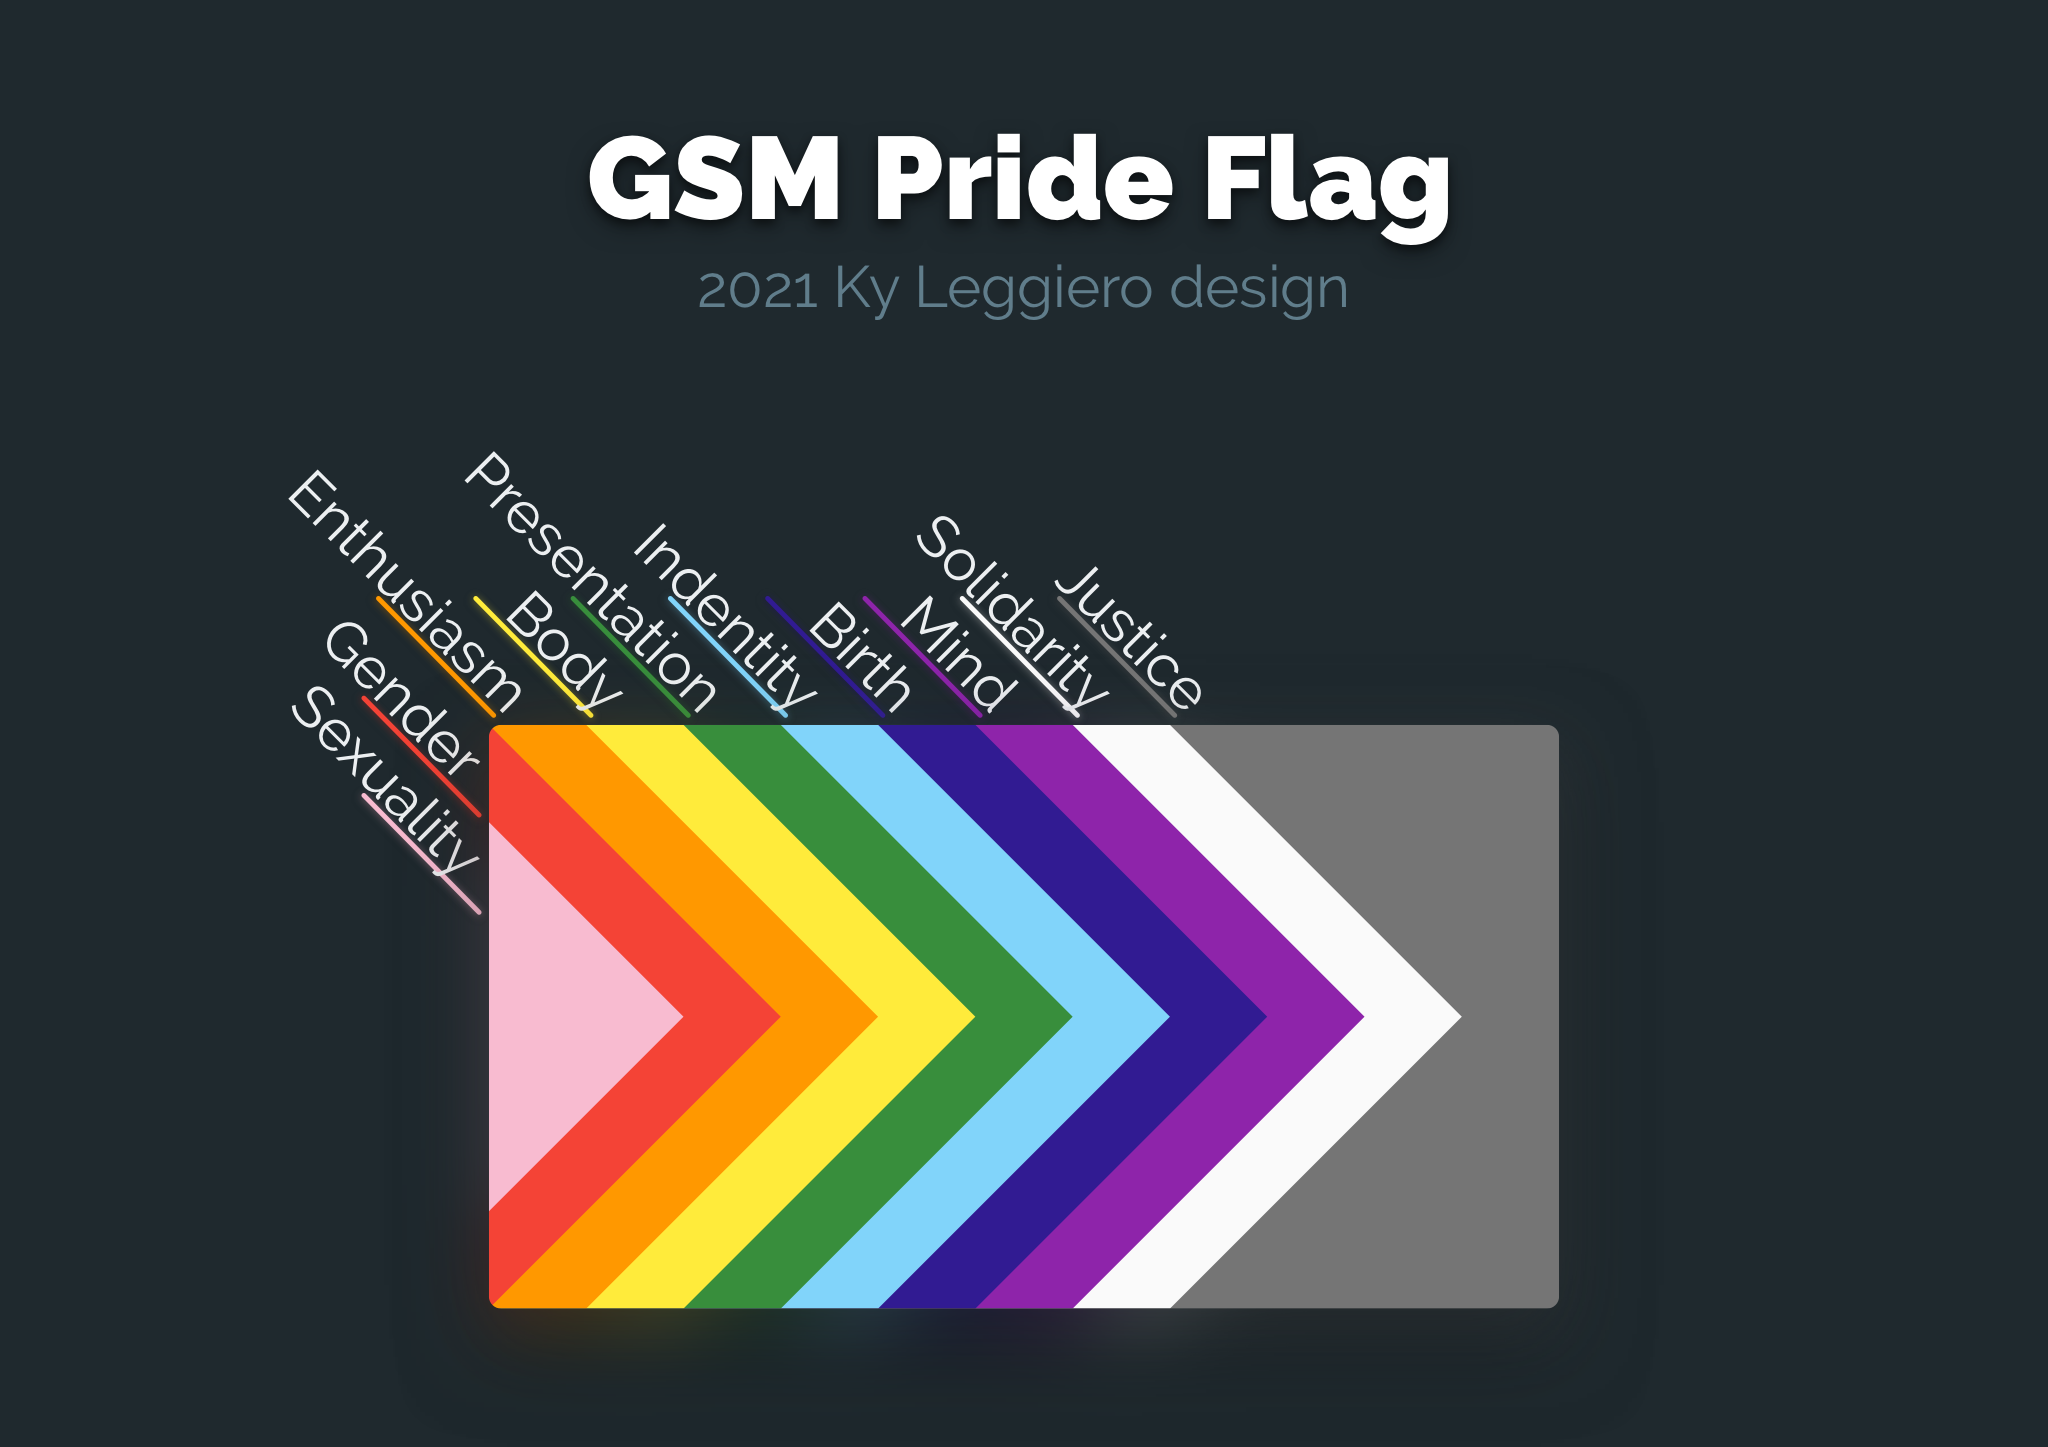
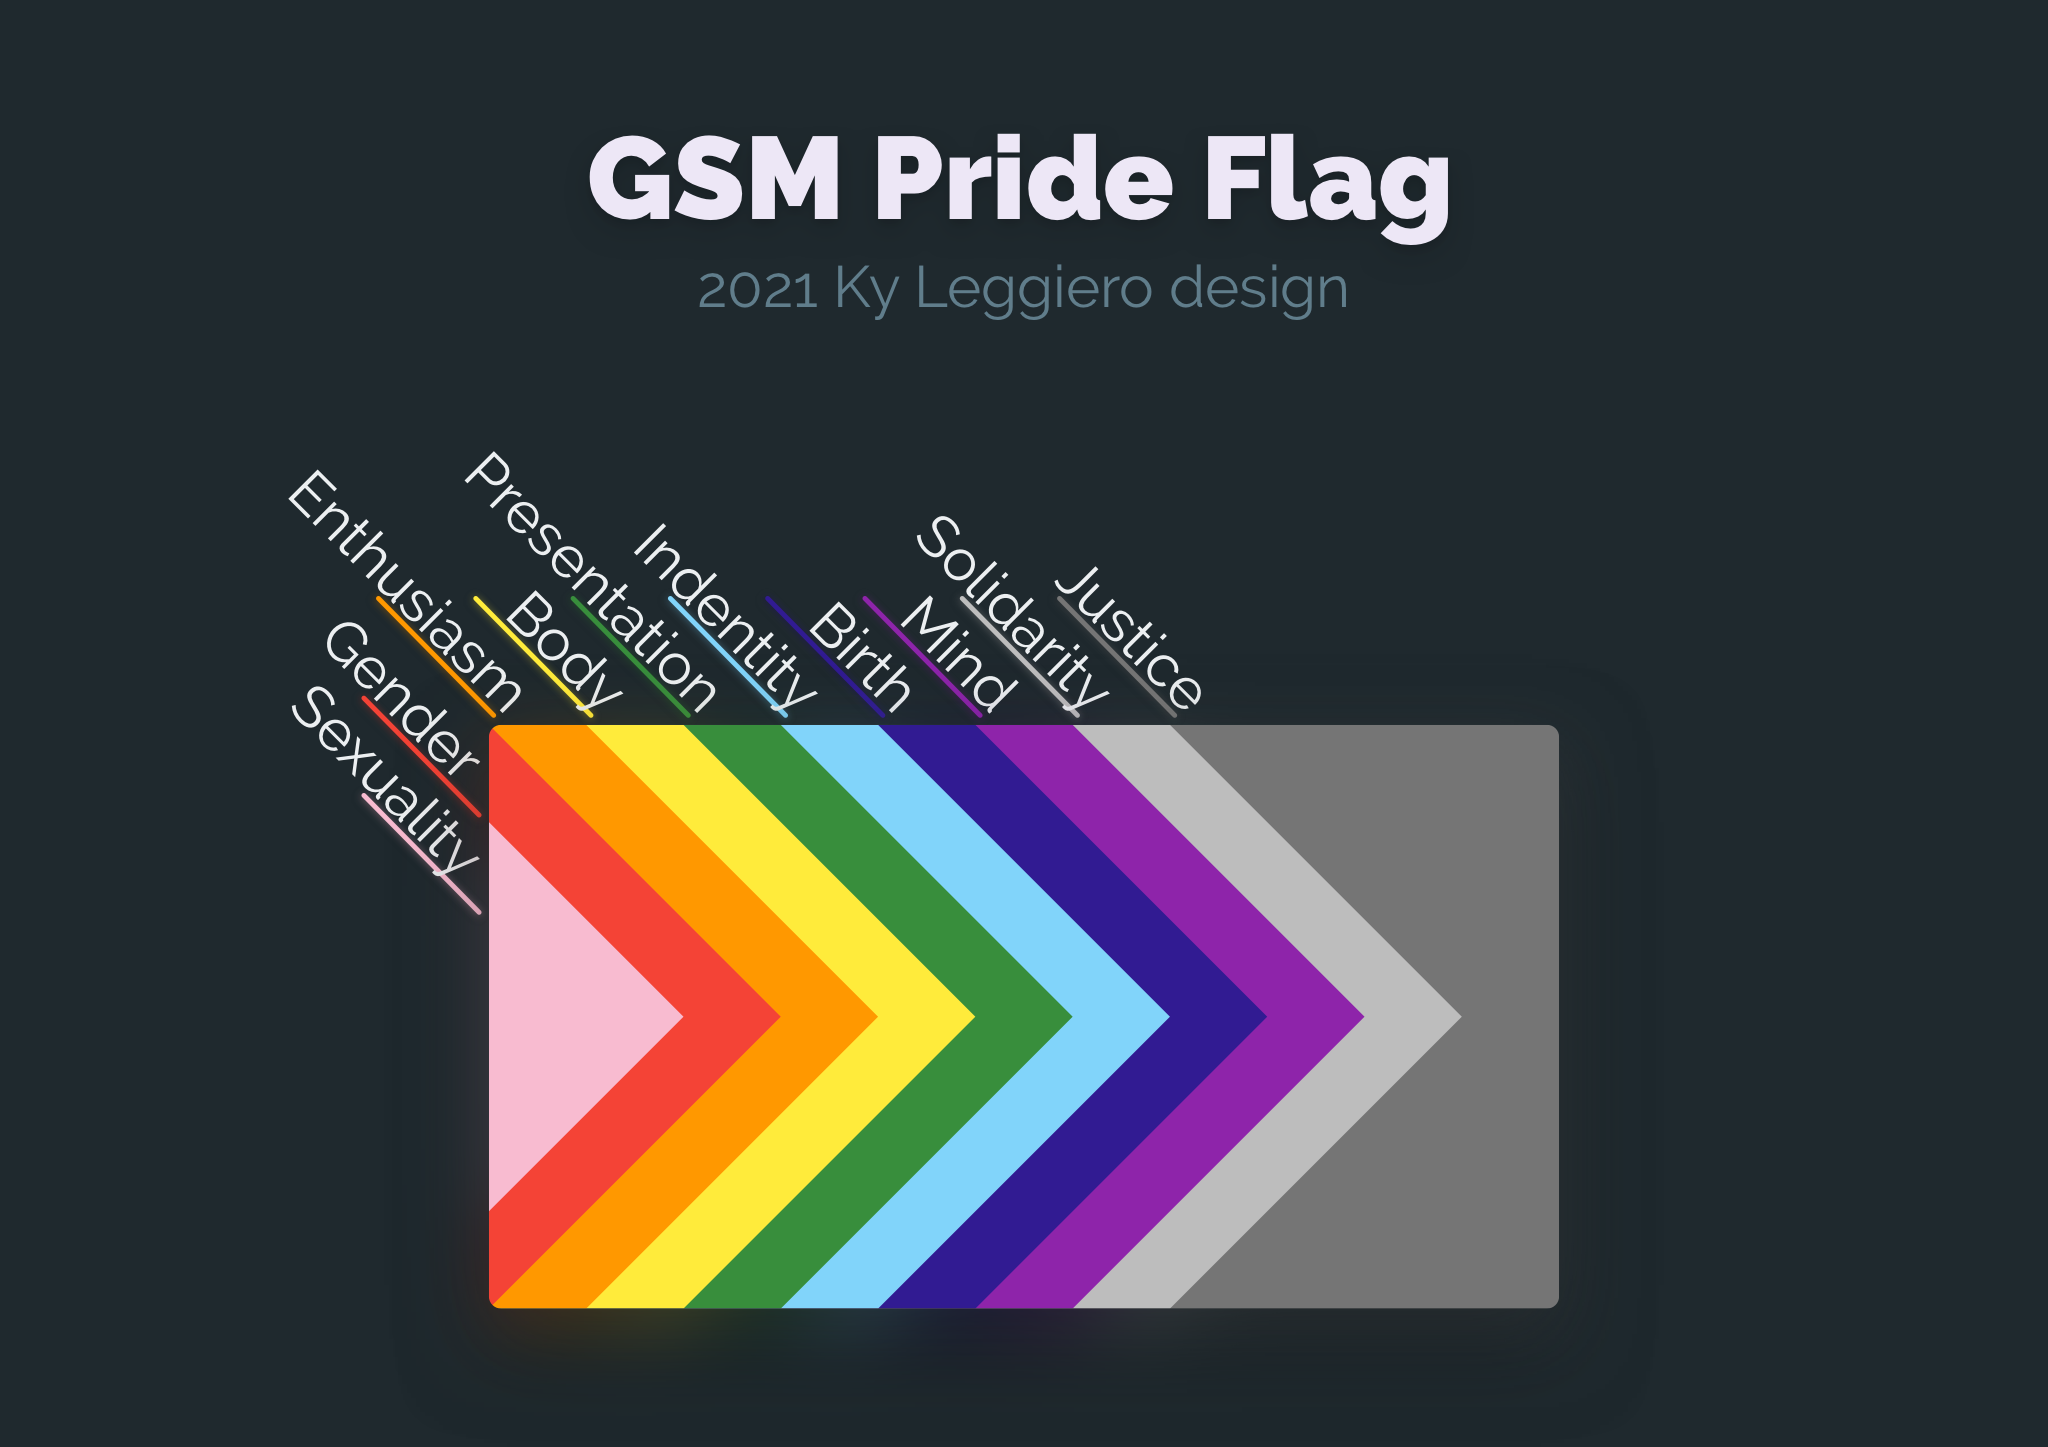
Edits based on feedback
Most significantly, I changed white to silver to reduce racial connotations, and explained some of the colors that folks had questions about

Changed region(s): [[0.5312, 0.4976, 0.7188, 0.9019], [0.5, 0.4665, 0.5312, 0.4976]]

diff --git a/page-specific-styles/2021-06-10-Inclusivity-pride-flags.scss b/page-specific-styles/2021-06-10-Inclusivity-pride-flags.scss
@@ -28,6 +28,11 @@
         display: inline-block;
         height: 1em;
         width: 1em;
+
+        @media (max-width: 960px) {
+            left: 0;
+            margin-inline-end: 1ex;
+        }
     }
 
     &.pink-and-red::before {
@@ -58,17 +63,12 @@
         background-image: url("/images/Pride Flags/GSM Pride Flag - Chevron (Purple).svg");
     }
 
-    &.white::before {
-        background-image: url("/images/Pride Flags/GSM Pride Flag - Chevron (White).svg");
-    }
-
-    &.grey::before {
-        background-image: url("/images/Pride Flags/GSM Pride Flag - Chevron (Grey).svg");
+    &.silver-and-grey::before {
+        background-image: url("/images/Pride Flags/GSM Pride Flag - Chevron (Silver & Grey).svg");
     }
 
 
-    &.yellow::before,
-    &.white::before {
+    &.yellow::before {
         background-color: #{"hsl(0deg, 0%, 50%, 40%)"};
         border-radius: 0.5ex;
 

diff --git a/_sass/_posts-and-pages.scss b/_sass/_posts-and-pages.scss
@@ -4,6 +4,13 @@
 //
 
 
+
+:root {
+    --post-and-page--aside-margin: 1rem;
+}
+
+
+
 .post,
 .page {
     max-width: var(--desktop-small-max-width);
@@ -54,7 +61,7 @@
 
     aside {
         width: fit-content;
-        margin: 1rem;
+        margin: var(--post-and-page--aside-margin);
         margin-inline-start: auto;
         padding: 1ex 1em;
         border-width: 1px;
@@ -66,6 +73,15 @@
         &,
         p {
             line-height: 1.4;
+        }
+
+        &.align-leading {
+            margin-inline-end: auto;
+            margin-inline-start: var(--post-and-page--aside-margin);
+        }
+
+        &.align-leading {
+            margin-inline: auto;
         }
     }
 

diff --git a/_sass/_legal-styles.scss b/_sass/_legal-styles.scss
@@ -23,8 +23,17 @@ aside.legal-disclaimer {
             letter-spacing: 1pt;
         }
 
+        &[data-legal-disclaimer-title-text]::before {
+            content: attr(data-legal-disclaimer-title-text);
+        }
+
         &:last-child {
             margin-bottom: 1cm;
+        }
+
+        &.thin {
+            margin: 1cm 5mm;
+            padding: 3mm 0;
         }
     }
 }

diff --git a/_posts/2021-06-10-Inclusivity-pride-flags.md b/_posts/2021-06-10-Inclusivity-pride-flags.md
@@ -2,6 +2,7 @@
 layout: post
 title: Inclusivity Pride Flags
 date: 2021-06-29 22:35 -0600
+date-edit: 2021-07-01 21:55 -0600
 categories:
   - GSM
   - Gender
@@ -48,7 +49,7 @@ It has 8 stripes, each with symbology that's very much of 70s culture:
 
 ![The current Rainbow Flag, from top to bottom is 6 horizontal stripes: red, orange, yellow, green, indigo, and violet](/images/Pride Flags/Current Rainbow Flag.svg){:.thumbnail.card}
 
-As demand increased, folks started creating and buying the flag. It soon became evident that the hot pink, and later turquoise, weren't as abundant to manufacture. So, they no longer became included, and we got the familiar 6-stripe flag we see today.
+As demand increased, folks started creating and buying the flag. It soon became evident that the hot pink, and later turquoise, weren't as abundant to manufacture. So, they were omitted and we got the familiar 6-stripe flag we see today.
 
 
 
@@ -56,7 +57,7 @@ As demand increased, folks started creating and buying the flag. It soon became 
 
 ![The Philadelphia Pride Flag, which is the standard 6-color pride flag with brown and black stripes added to the top](/images/Pride Flags/Philadelphia Pride Flag.svg){:.thumbnail.card}
 
-The Philadelphia Pride Flag was commissioned by the city of Philadelphia in **June 2017** for their pride events. [It was designed](https://HelloTierney.com/work/more-color-more-pride-2) my the marketing firm [Tierney](https://HelloTierney.com). Visually, it is the standard 6-color pride flag with brown and black stripes added to the top, to draw attention to the issues which people of color such as myself face within the GSM community.
+The Philadelphia Pride Flag was commissioned by the city of Philadelphia in **June 2017** for their pride events. [It was designed](https://HelloTierney.com/work/more-color-more-pride-2) by the marketing firm [Tierney](https://HelloTierney.com). Visually, it is the standard 6-color pride flag with brown and black stripes added to the top, to draw attention to the issues which people of color such as myself face within the GSM community.
 
 One issue with this flag is that it was commissioned by a city, for public relations during Pride 2017. That origin tells a story of capitalizing on oppression issues, trying to monetize peoples' desire to be seen and to unify, rather than being created by those people to protest their oppression.
 
@@ -89,6 +90,7 @@ In **May 2021**, intersex rights activist [Valentino Vecchietti](https://twitter
 
 
 
+
 # My Personal Feelings #
 
 **I really love these!** They all show a desire by the community to unify under one banner, recognizable and empowering. All of them evoke the familiar rainbow flag, and add something that can be noticed, understood, and talked about. That kind of enthusiasm and creativity makes me happy; it's what has grown and centered this community for so many years.
@@ -117,16 +119,17 @@ After I identified these related but distinct needs, inspiration struck me and I
 
 
 
+
 # My Proposal #
 
 <figure markdown=1>
-![A flag displaying 10 chevrons pointing rightward: the original 8 colors, then white and grey](/images/Pride Flags/GSM Pride Flag (2021 Ky Leggiero design).svg){:.mid-post-hero.card}
+![A flag displaying 10 chevrons pointing rightward: the original 8 colors, then silver and grey](/images/Pride Flags/GSM Pride Flag (2021 Ky Leggiero design).svg){:.mid-post-hero.card}
 <figcaption role="cite">The GSM Pride Flag (2021 Ky Leggiero design)</figcaption>
 </figure>
 
 
 
-Here is my proposal. It uses the original Retro 8 colors in 8 rightward-pointing chevrons, then a white chevron, and the rest grey. The symbology here is intertwined and represents what I see as deeply-ingrained pieces of the GSM community and its members. Let's dive into why I landed on this design:
+Here is my proposal. It uses the original Retro 8 colors in 8 rightward-pointing chevrons, then a silver chevron, and the rest grey. The symbology here is intertwined and represents what I see as deeply-ingrained pieces of the GSM community and its members. Let's dive into why I landed on this design:
 
 
 <span data-target-theme="dark">[![](/images/Pride Flags/GSM Pride Flag (2021 Ky Leggiero design; Annotated; Dark Mode).png){:.mid-post-hero.card}](/images/Pride Flags/GSM Pride Flag (2021 Ky Leggiero design; Annotated; Dark Mode).png)</span>
@@ -145,6 +148,10 @@ The first two chevrons and the only ones to touch the leading edge of the flag a
 
 Even when a person's sexuality andor gender is weak or nonexistent, that also helps define our identities and relationships with each other and society at large.
 
+<aside class="align-center">
+These colors were chosen not only because they are the familiar first two colors of the original Retro 8 flag (with the original pink representing Sex, and this one representing Sexuality), but also because their similarity in shade further emphasizes how closely-linked they are. Pink & Red have also often been used to represent passion & sex in general.
+</aside>
+
 
 ### Orange for Enthusiasm ###
 {:.chevron-header.orange}
@@ -152,12 +159,15 @@ Even when a person's sexuality andor gender is weak or nonexistent, that also he
 Enthusiasm is extremely important in the GSM community. It drives our creativity, our expression & presentation, our desire to push for a better world. Without enthusiasm, we would fade into the background; it liberates us and brings us into the public consciousness!
 
 
+
 ### Yellow for Body ###
 {:.chevron-header.yellow}
 
 Our bodies are a major focus, in our own perspectives, within our relationships, within our community, and from outside our community. We use our bodies to present ourselves and our identities. Our bodies reflect the lives we've led, which brought us to this point. Some of us look to change their body, or escape it entirely, some look to embrace their body, placing it on display, and some do both at the same time!
 
+<aside class="align-center">
 The yellow used here also echoes the fight for intersex awareness and rights, which focuses on bodies even more than the sexuality & gender sides of our movements.
+</aside>
 
 
 ### Green for Presentation ###
@@ -184,26 +194,30 @@ The circumstances of one's birth cannot be chosen by that individual, and often 
 One's mind is a crucial part of them, where all these concepts collide, and from which comes their sense of identity and justice, their choices in things like their presentation, and their reflections on their lack of choices in things like their birth. Philosophy is a major component of the GSM community; as we are attacked by laws and words, we are forced to look inward upon ourselves, thinking about who we are, and returning with our discoveries. At both a macro scale, where we push for social change, and a micro scale, where we discover our own identities, our minds are a core part of our experiences as gender & sexual minorities.
 
 
-### White for Solidarity ###
-{:.chevron-header.white}
+### Silver for Solidarity & Grey for Justice ###
+{:.chevron-header.silver-and-grey}
 
-Together, we create and enact change. Together, we are stronger. As we fight divisions and reduce biases, we become more accepting and understanding of each other in all the various and beautiful ways that make us different. By sticking together, we can do more than we ever could divided. Only through solidarity can we win these fights for our civil rights.
+Together, we create and enact change. Together, we are stronger. As we fight divisions and reduce biases, we become more accepting and understanding of each other in all the various and beautiful ways that make us different. By sticking together, we can do more than we ever could divided.
 
 
-### Grey for Justice ###
-{:.chevron-header.grey}
+Only through solidarity can we win these fights for justice.
+
 
 All these point toward the reason we are a shared community: we demand justice. We demand to never be treated as lesser, simply because our gender or sexuality isn't in the majority. We demand to no longer fight simply for what we need to live happily. Justice for each of us and our sub-communities is about feeling like we have a place in this world, rather than feeling like a downtrodden, cast-aside, andor forgotten minority.
 
 We also demand justice for those we've lost. Many of our GSM siblings have fallen to violence, hate crimes, actions taken by governments, and disease, most notably our lost elders who fell to the AIDS pandemic of the 80s. We fight for them, and this grey represents them as well.
 
+<aside class="align-center">
+Silver & grey were chosen for their metallic likeness, evoking the metaphorical shields with which we brace ourselves in solidarity, and metaphorical swords with which we fight for our rights.
+</aside>
+
 
 
 # To The Community #
 
-With this, I release this flag to the community. I claim no ownership over its design; I just want folks to feel like they have something that represents them. If you're a legal nerd, then consider this flag released under [the CC-0 license](http://creativecommons.org/publicdomain/zero/1.0/). Below is the official legal notice making this official:
+With this, I release this flag to the community. I claim no ownership over its design; I just want folks to feel like they have something that represents them. If you're a legal nerd, then consider this flag released under [the CC-0 license](http://creativecommons.org/publicdomain/zero/1.0/). Below is the legal notice making this official:
 
-<aside class="legal-disclaimer" xmlns:dct="http://purl.org/dc/terms/" xmlns:vcard="http://www.w3.org/2001/vcard-rdf/3.0#">
+<aside class="thin legal-disclaimer" data-legal-disclaimer-title-text="Legal Notice" xmlns:dct="http://purl.org/dc/terms/" xmlns:vcard="http://www.w3.org/2001/vcard-rdf/3.0#">
     <a rel="license" href="http://creativecommons.org/publicdomain/zero/1.0/"><img src="/images/CC0 Badge.svg" alt="CC0" /></a>
     <br />
     To the extent possible under law, <a rel="dct:publisher" href="https://KyLeggiero.me"><span property="dct:title">Ky Leggiero</span></a>, also known as <span property="dct:title">Ben Leggiero</span>, has waived all copyright and related or neighboring rights to <span property="dct:title">The GSM Pride Flag (2021 Ky Leggiero design)</span>.
@@ -237,7 +251,7 @@ I used these colors when designing the flag, but you might need or want to use d
 - Cyan: `#81D4FA`
 - Indigo: `#311B92`
 - Purple: `#8E24AA`
-- White: `#FAFAFA`
+- Silver: `#BDBDBD`
 - Grey: `#757575`
 
 
@@ -245,11 +259,14 @@ I used these colors when designing the flag, but you might need or want to use d
 
 ![](/images/Pride Flags/GSM Pride Flag (2021 Ky Leggiero design; Flying Dexter).png){:.thumbnail.card}
 
-Because the chevrons represent progress, when flying this flag in the wind or as a jacket patch, the chevrons should point in the direction of the wind (away from a flagpole, towards the back of a person wearing it).
+Because the chevrons represent progress, when flying this flag in the wind, the chevrons should point in the direction of the wind (away from a flagpole).
+
+When worn as a jacket patch, the chevrons should point in the direction of movement (towards the front of a person wearing it).
 
 <br style="clear:both" />
 
 ![](/images/Pride Flags/GSM Pride Flag (2021 Ky Leggiero design; Flying Vertically).png){:.thumbnail.card.left}![](/images/Pride Flags/GSM Pride Flag (2021 Ky Leggiero design; Flying Vertically Down).png){:.thumbnail.card.left}
+
 When displaying the flag vertically, the chevrons should point upwards, to symbolize upward progress. However, since flags flown vertically are traditionally flown with the same hoist at the top as horizontal flags have towards the flagpole, that is also okay, even though the chevrons will be pointing downward.
 
 <br style="clear:both" />
